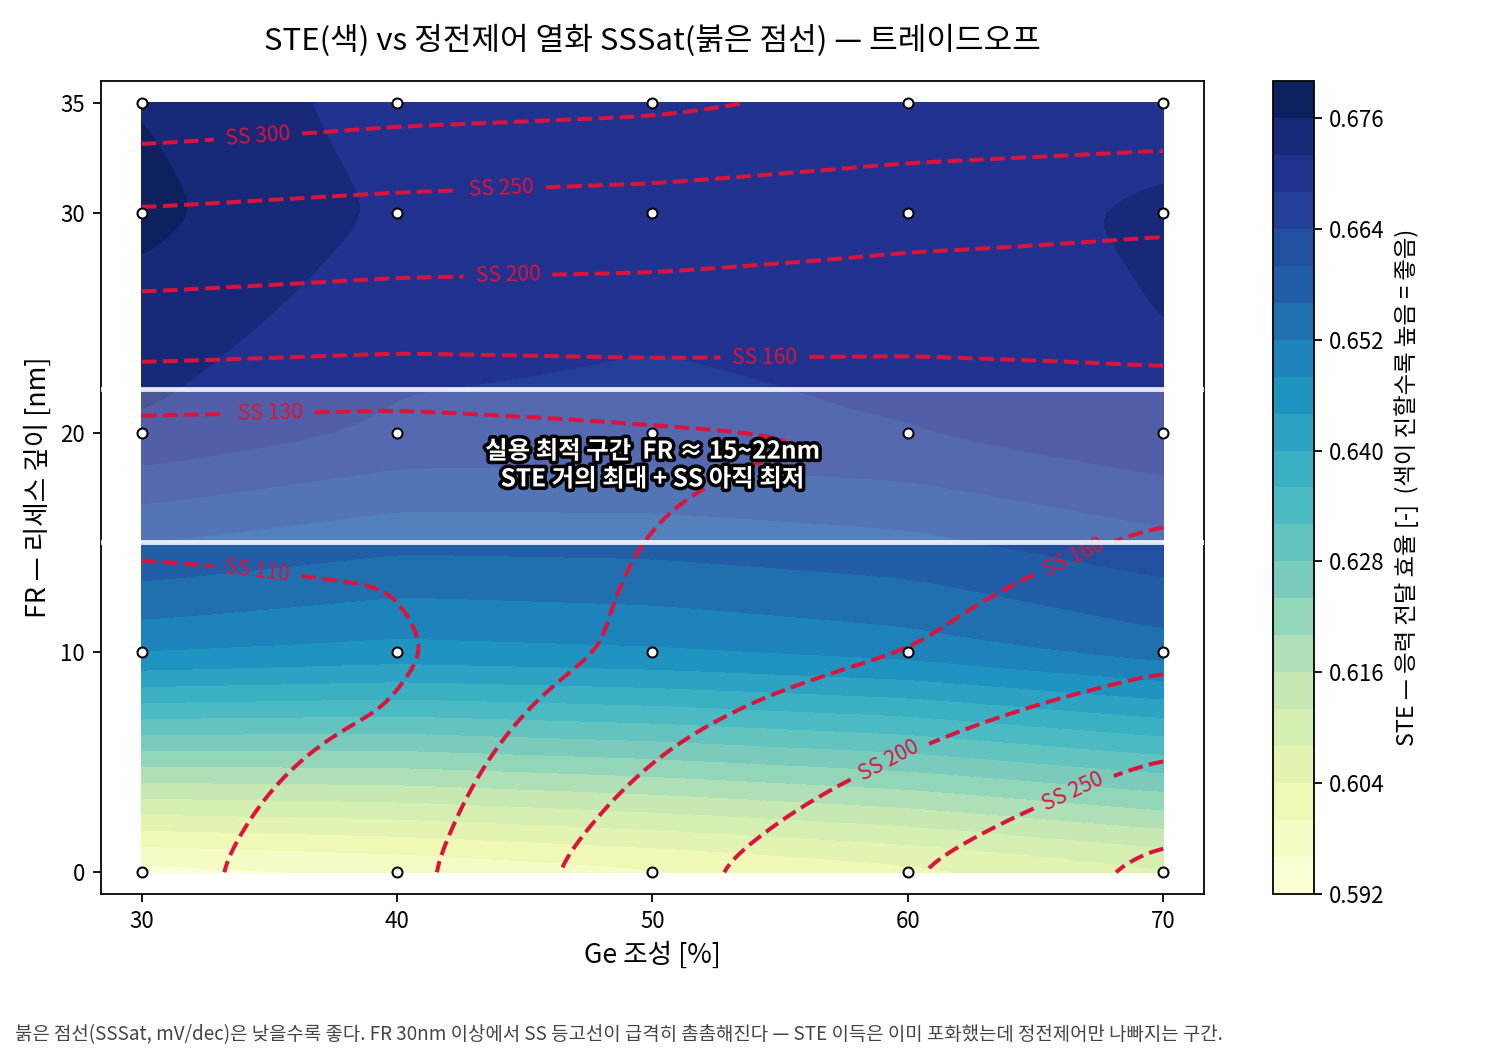
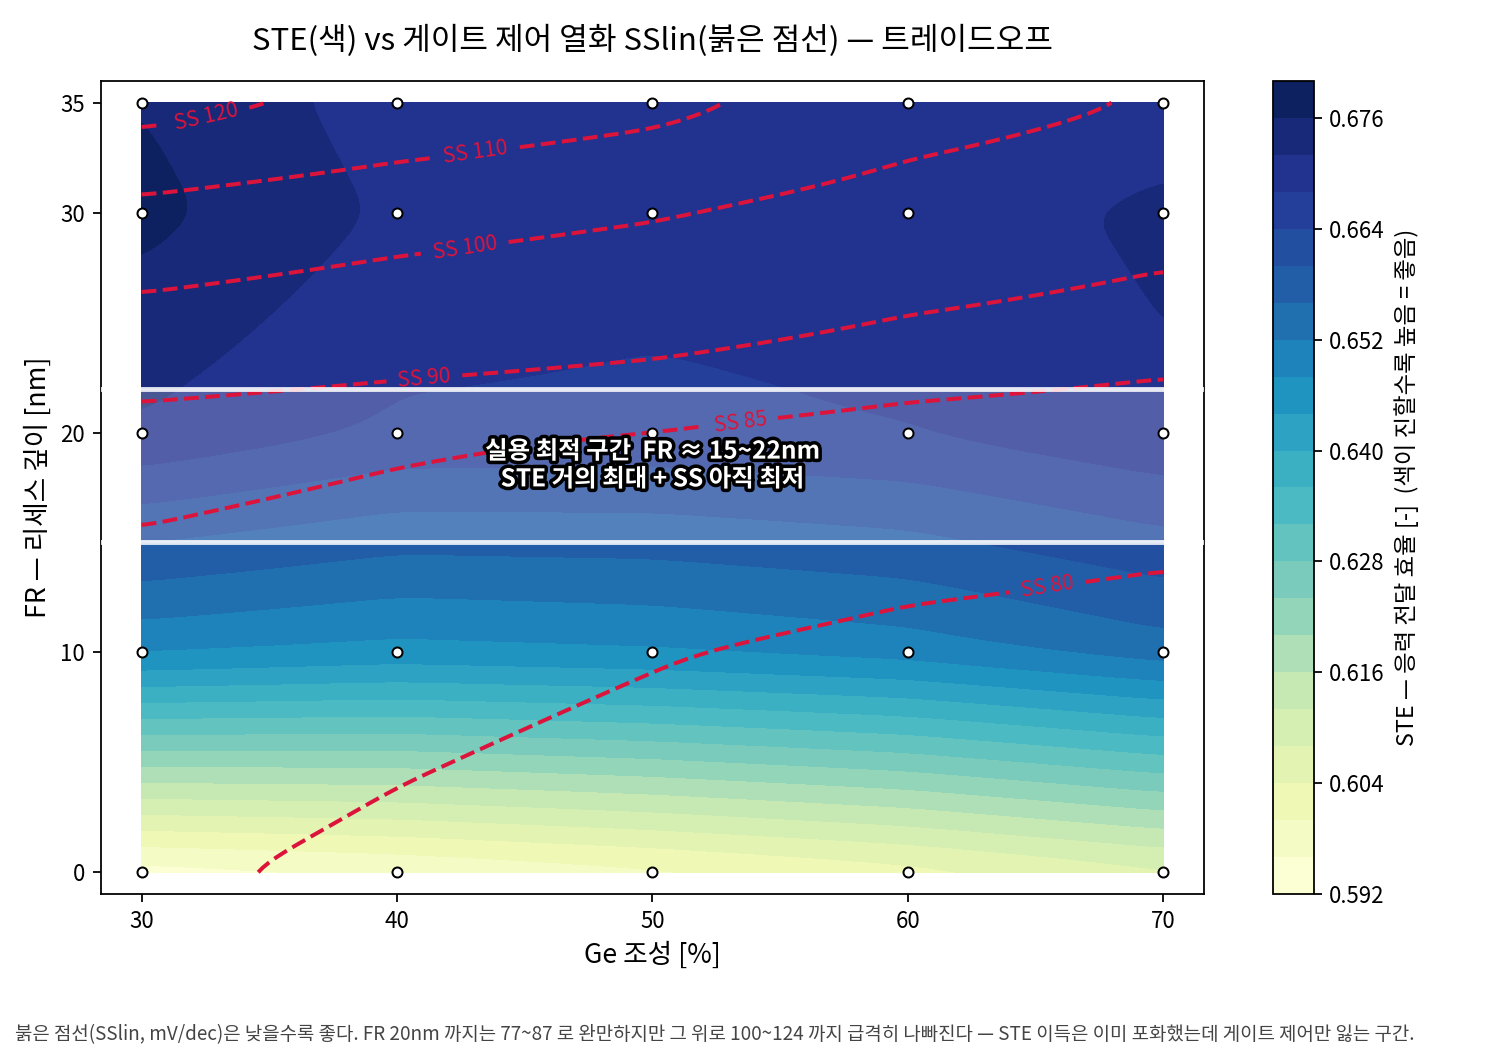
metrics: SSSat -> SSlin/Ioff/DIBL 3분리, DIBL 자동계산 추가, 발표용 지도 6종 갱신

diff --git a/analysis/figures_presentation.py b/analysis/figures_presentation.py
@@ -174,7 +174,7 @@ def draw_map(df, col, title, cbar_label, fname, cmap="YlGnBu",
 
 def draw_overlay(df):
     X, Y, Z_ste = pivot(df, "STE_vol")
-    _, _, Z_ss = pivot(df, "SSSat")
+    _, _, Z_ss = pivot(df, "SSlin")
     Xp, Yp, Zp_ste = smooth_grid(X, Y, Z_ste)
     _, _, Zp_ss = smooth_grid(X, Y, Z_ss)
 
@@ -183,7 +183,7 @@ def draw_overlay(df):
     cb = fig.colorbar(cf, ax=ax)
     cb.set_label("STE — 응력 전달 효율 [-]  (색이 진할수록 높음 = 좋음)", fontsize=10.5)
 
-    cs = ax.contour(Xp, Yp, Zp_ss, levels=[110, 130, 160, 200, 250, 300],
+    cs = ax.contour(Xp, Yp, Zp_ss, levels=[80, 85, 90, 100, 110, 120],
                     colors="crimson", linewidths=1.8, linestyles="--")
     ax.clabel(cs, inline=True, fontsize=9.5, fmt="SS %.0f")
 
@@ -203,7 +203,7 @@ def draw_overlay(df):
 
     ax.set_xlabel("Ge 조성 [%]", fontsize=12)
     ax.set_ylabel("FR — 리세스 깊이 [nm]", fontsize=12)
-    ax.set_title("STE(색) vs 정전제어 열화 SSSat(붉은 점선) — 트레이드오프",
+    ax.set_title("STE(색) vs 게이트 제어 열화 SSlin(붉은 점선) — 트레이드오프",
                  fontsize=14, pad=14)
     ax.set_xticks(X)
     ax.set_yticks(Y)
@@ -211,8 +211,8 @@ def draw_overlay(df):
     ax.set_ylim(Y.min() - 1.0, Y.max() + 1.0)
 
     fig.text(0.01, 0.015,
-             "붉은 점선(SSSat, mV/dec)은 낮을수록 좋다. FR 30nm 이상에서 SS 등고선이 급격히 촘촘해진다 "
-             "— STE 이득은 이미 포화했는데 정전제어만 나빠지는 구간.",
+             "붉은 점선(SSlin, mV/dec)은 낮을수록 좋다. FR 20nm 까지는 77~87 로 완만하지만 그 위로 100~124 까지 급격히 나빠진다 "
+             "— STE 이득은 이미 포화했는데 게이트 제어만 잃는 구간.",
              fontsize=8.5, color="#444")
     fig.tight_layout(rect=(0, 0.06, 1, 1))
     out = FIGDIR / "pres_tradeoff_overlay.png"
@@ -243,12 +243,36 @@ def main():
                   "★ = 응력이 가장 강한 지점(G70_F30)." + SMOOTH_NOTE,
              best="max")
 
-    draw_map(df, "SSSat",
-             "포화 Subthreshold Swing (SSSat) — Ge% × FR",
-             "SSSat [mV/dec]  (색이 진할수록 높음 = 정전제어 나쁨)",
-             "pres_SSSat_map.png", cmap="Reds", fmt="%.0f",
-             note="이상적 하한은 60 mV/dec. ★ = 가장 좋은(가장 낮은) 지점. "
-                  "FR 30nm 이상에서 전 Ge% 구간에 걸쳐 급격히 악화된다." + SMOOTH_NOTE,
+    # ★ 게이트 제어 품질의 지표는 SSlin — 이상적 60mV/dec 한계와 비교 가능한 쪽
+    draw_map(df, "SSlin",
+             "Subthreshold Swing SSlin (저 Vd) — Ge% × FR",
+             "SSlin [mV/dec]  (색이 진할수록 높음 = 게이트 제어 나쁨)",
+             "pres_SSlin_map.png", cmap="Reds", fmt="%.0f",
+             note="게이트 제어 품질의 지표. 이상적 하한 60 mV/dec 와 비교 가능한 건 이 값이다"
+                  "(SS 이상식은 드레인이 장벽에 영향을 안 준다는 가정에서 유도되므로). "
+                  "★ = 가장 좋은 지점." + SMOOTH_NOTE,
+             best="min")
+
+    # 누설은 SS 에 섞지 말고 따로 — 고 Ge% 에서 SiGe 밴드갭 축소로 접합 누설이 커진다
+    df = df.copy()
+    df["log10_Ioff"] = np.log10(df["Ioff_norm"].astype(float))
+    draw_map(df, "log10_Ioff",
+             "누설전류 Ioff (log10) — Ge% × FR",
+             "log10(Ioff_norm)  (색이 진할수록 누설 큼)",
+             "pres_Ioff_map.png", cmap="Purples", fmt="%.1f",
+             note="SSSat 대신 누설을 따로 본 지도. 고 Ge% 에서 SiGe 밴드갭 축소로 드레인 접합 누설이 커지고, "
+                  "FR 30nm 이상에서는 채널 스토퍼(SiStop) 제거로 관통 누설이 더해져 자릿수 단위로 뛴다. "
+                  "★ = 누설이 가장 적은 지점." + SMOOTH_NOTE,
+             best="min")
+
+    # 숏채널 효과는 SSSat 이 아니라 DIBL 로 정량화한다
+    draw_map(df, "DIBL_mV_V",
+             "DIBL (드레인 유도 장벽 저하) — Ge% × FR",
+             "DIBL [mV/V]  (색이 진할수록 숏채널 효과 심함)",
+             "pres_DIBL_map.png", cmap="Oranges", fmt="%.0f",
+             note="DIBL = (|VtiLin|-|VtiSat|)/ΔVd, ΔVd=0.75V 가정. FR 이 깊어질수록 5개 Ge% 전부에서 "
+                  "단조 증가 — 리세스가 채널 스토퍼를 제거해 숏채널 효과가 커진다는 직접 증거. "
+                  "★ = 가장 좋은 지점." + SMOOTH_NOTE,
              best="min")
 
     draw_overlay(df)

diff --git a/analysis/build.py b/analysis/build.py
@@ -45,6 +45,9 @@ OUT_JSON = ROOT / "analysis" / "status.json"
 REQUIRED = ["run_id", "stress_GPa"]   # ste 는 아직 정규화 미확정이라 필수 아님 — 있으면 통과시킴
 XCHECK_TOL = 0.05          # 교차검증 허용 편차 (주 지표 stress_GPa 기준)
 XCHECK_METRIC = "stress_GPa"
+DVD_FOR_DIBL = 0.75        # DIBL 계산용 ΔVd [V] = Vdd(0.8) - Vlin(0.05 가정)
+                           # ⚠ Vlin 실제값은 finfet_sdevice.cmd 에서 확인 필요 —
+                           #   상수라 경향/대소 비교에는 영향 없고 절대값만 비례해서 바뀐다
 
 MU_COLUMNS = ["run_id", "Ge_percent", "FR_nm", "owner"]  # mu 가 항상 최소로 가져야 하는 컬럼
 
@@ -204,6 +207,13 @@ def read_swb(path, cfg):
         #   (baseline/README.md 2026-08-06/08-10 항목 참고)
         if np.isfinite(rec.get("SlFin_MPa", np.nan)):
             rec["stress_GPa"] = rec["SlFin_MPa"] / 1000.0
+        # ★ 2026-08-15: DIBL = (|VtiLin| - |VtiSat|) / ΔVd  [mV/V]
+        #   숏채널 효과(드레인이 채널 장벽을 낮추는 정도)의 표준 지표.
+        #   SSSat 이 누설에 오염돼 있어 정전제어 열화를 SSSat 으로 논하면 안 되고,
+        #   DIBL 로 따로 정량화해야 한다. ΔVd 는 Vdd - Vlin 근사.
+        vl, vs = rec.get("VtiLin", np.nan), rec.get("VtiSat", np.nan)
+        if np.isfinite(vl) and np.isfinite(vs):
+            rec["DIBL_mV_V"] = (abs(vl) - abs(vs)) / DVD_FOR_DIBL * 1000.0
         out.append(rec)
     return out, pending
 
